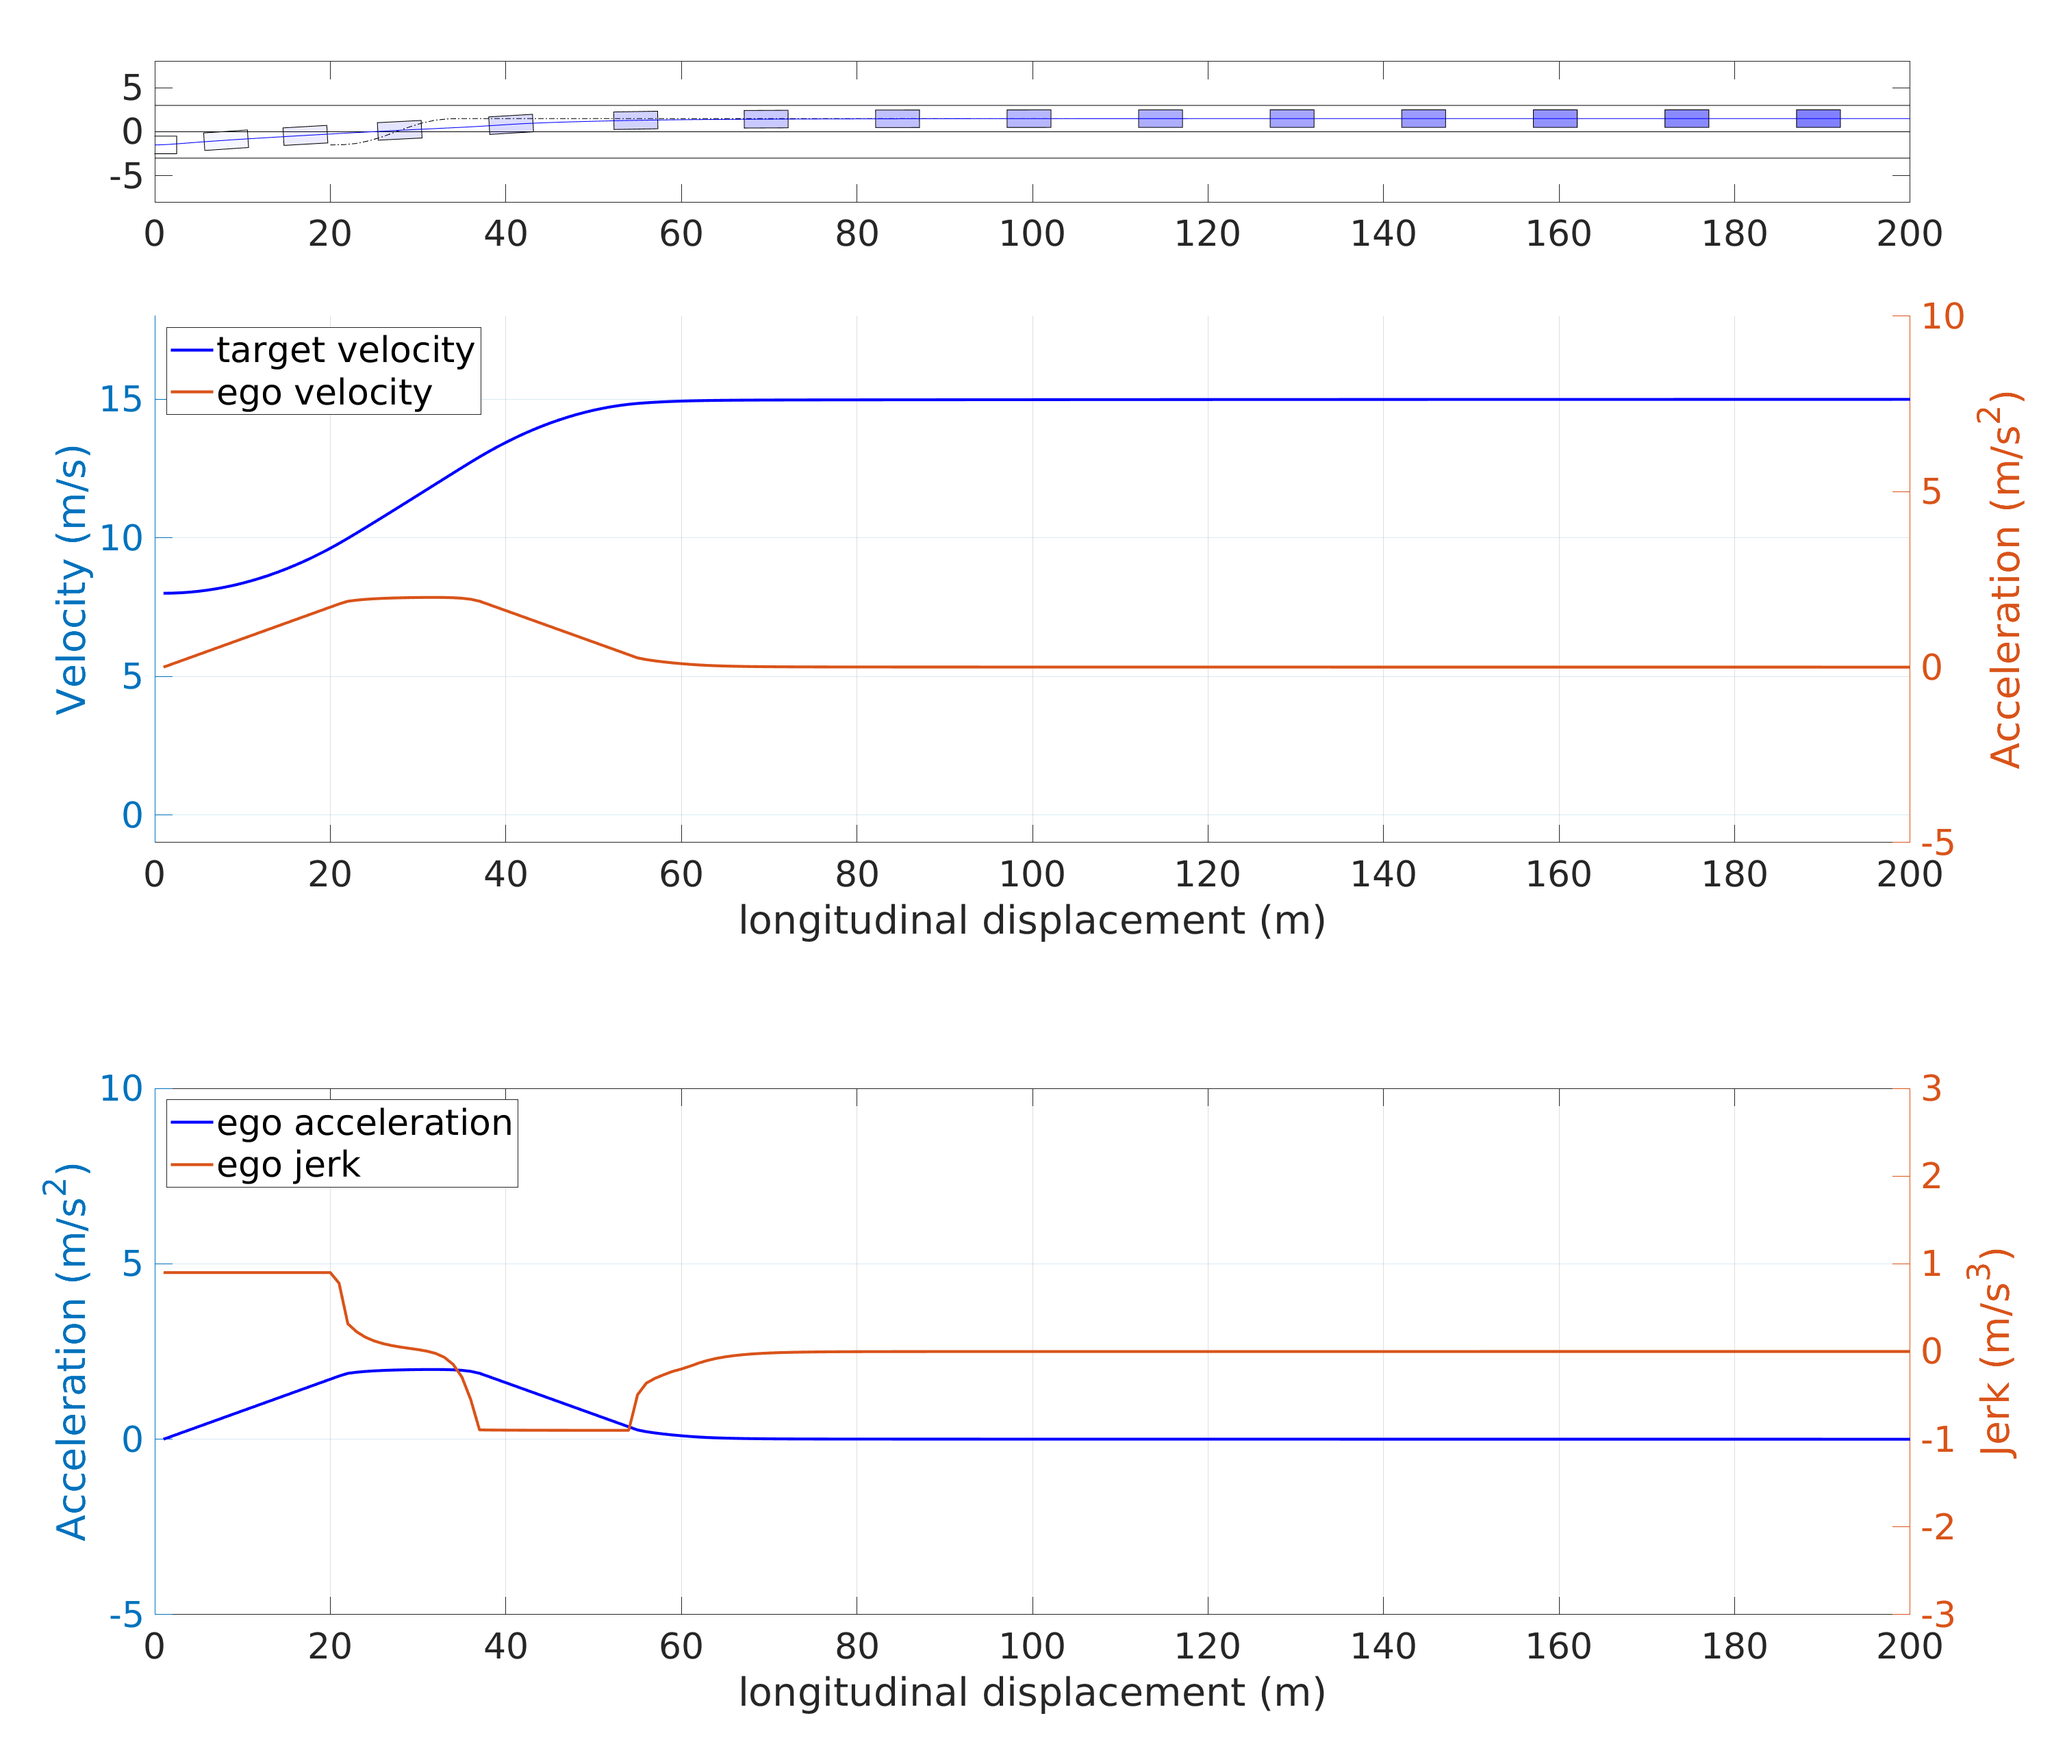
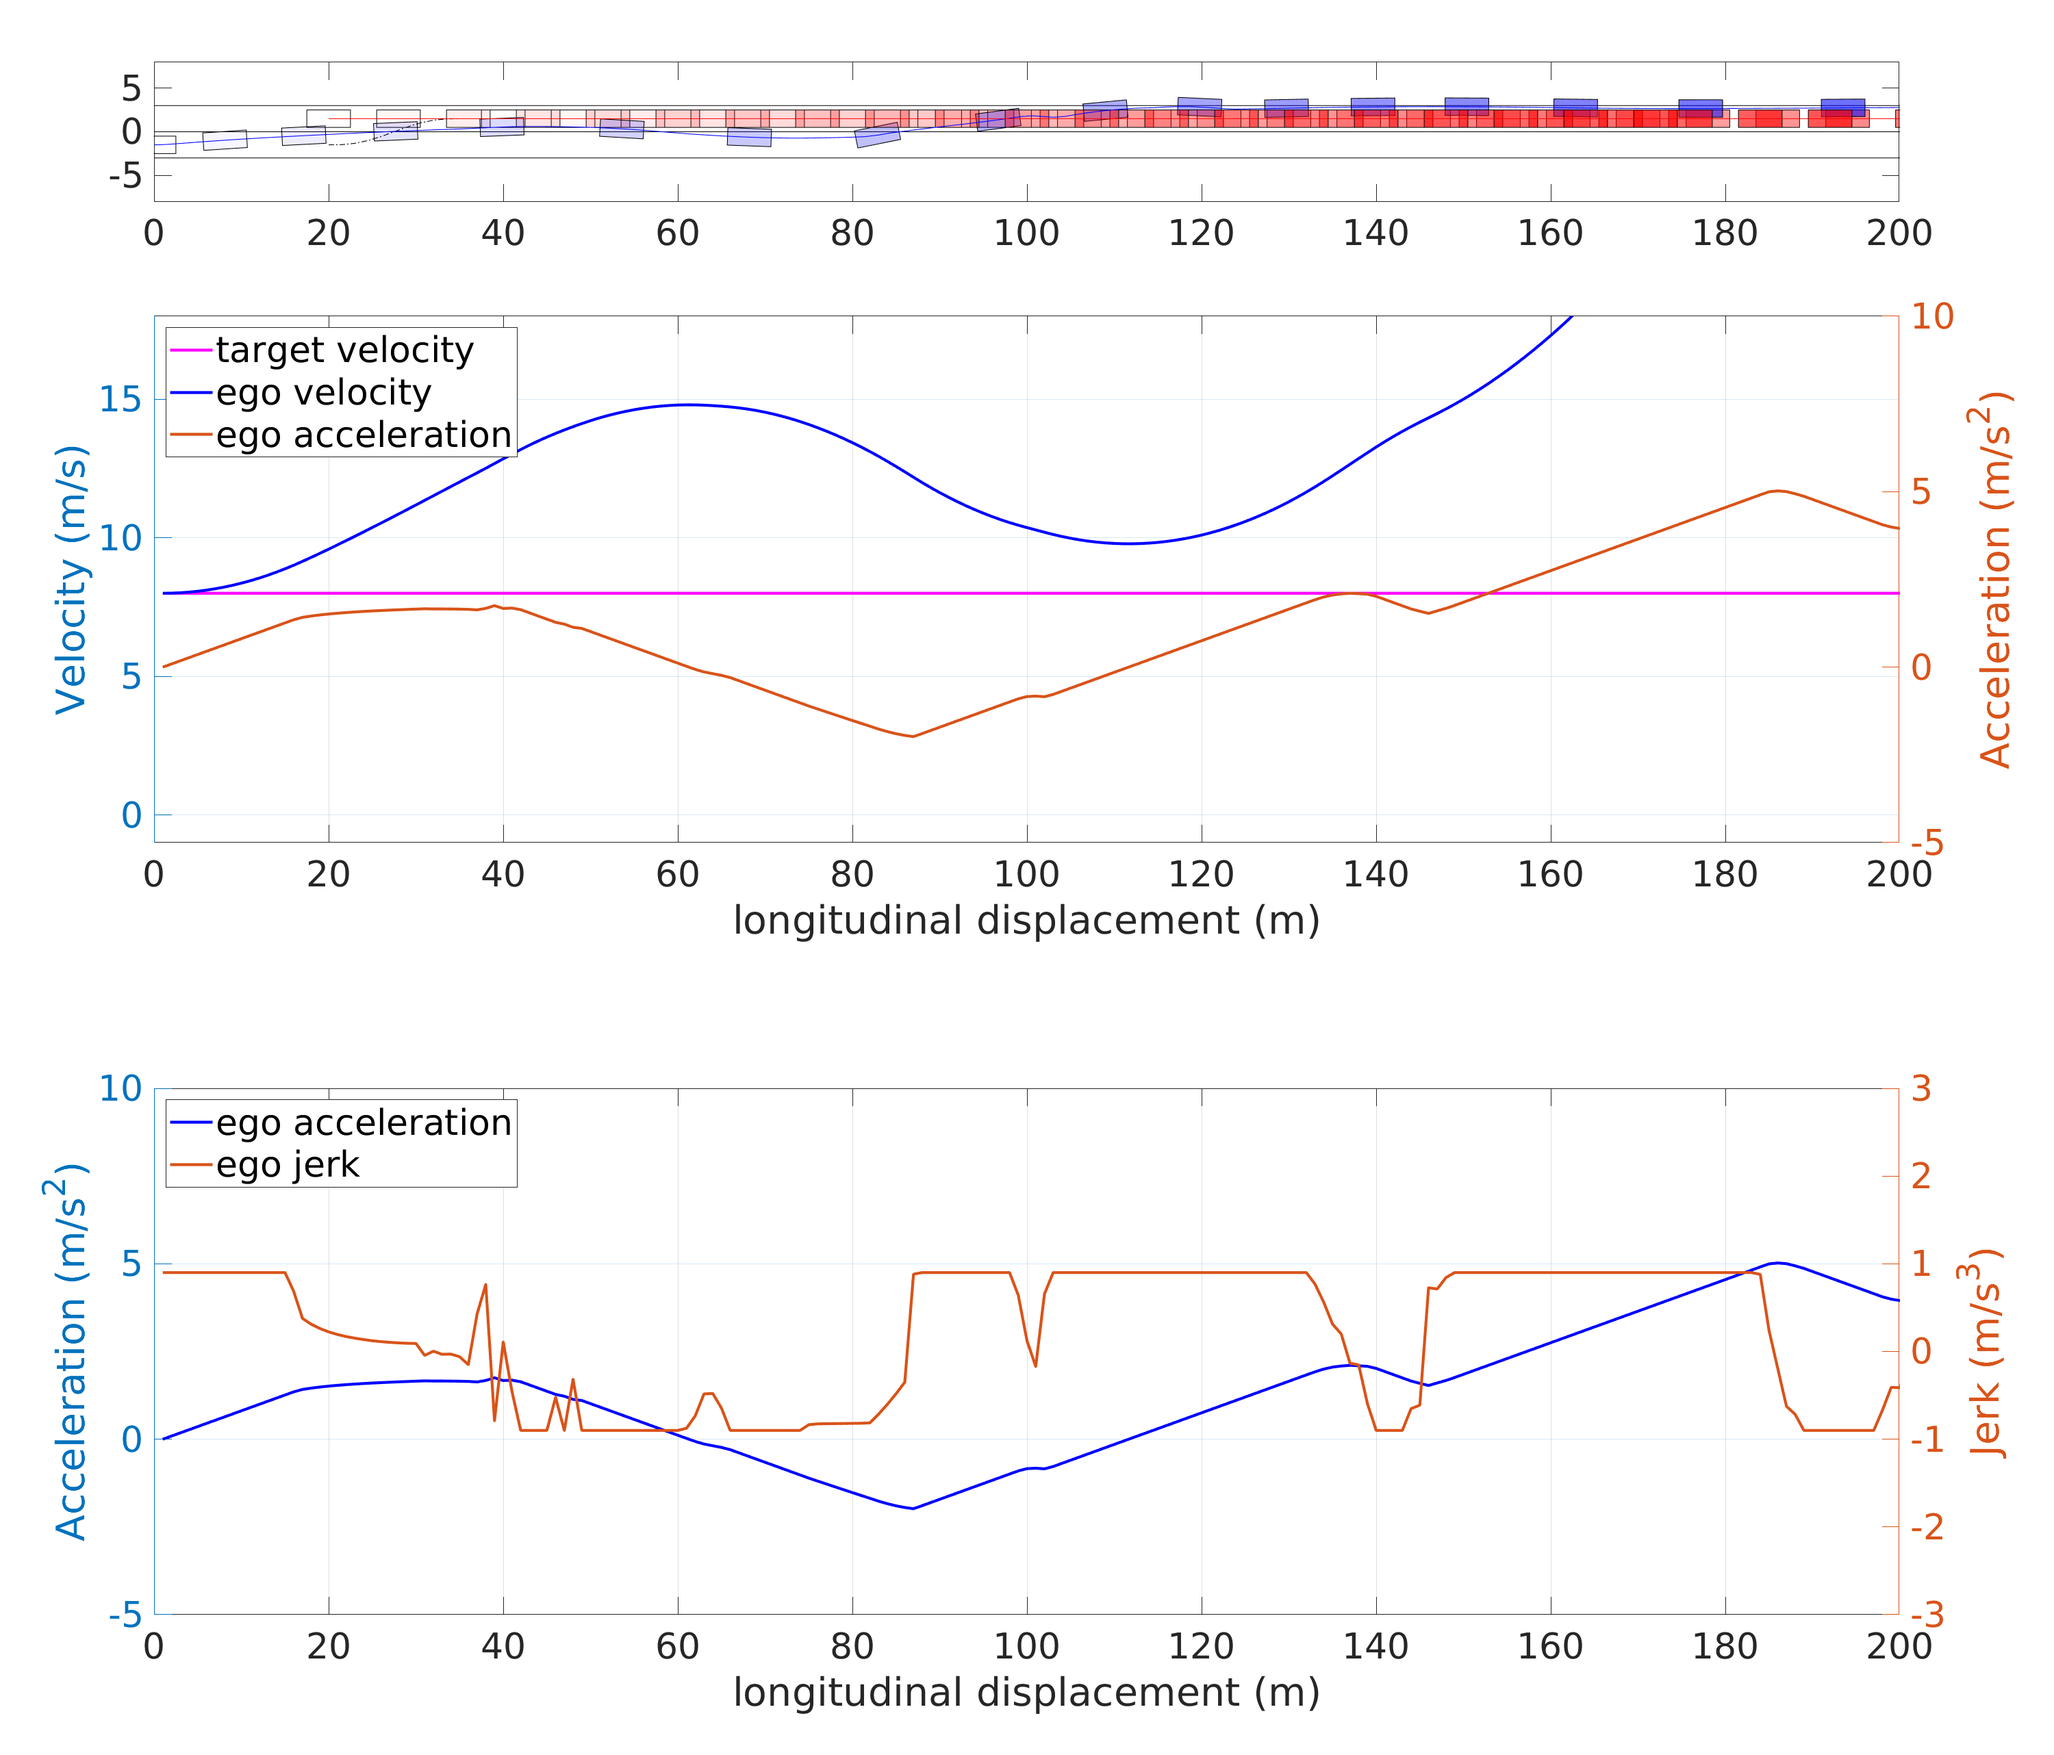
starting to work on imaginary target vehicle,  phase planer and obtacle overtaking

diff --git a/DYNCST.m b/DYNCST.m
@@ -58,6 +58,8 @@ global vref aref vref_road
     global y_final y_temp_final
     global param
 
+ % for obstacle overtaking until the road is clear 
+ global EgoPolicy Phase
 %% vehicle kinematcs differential terms
 fx = zeros(X_DIM, X_DIM, NUM_CTRL);
 fu = zeros(X_DIM, U_DIM, NUM_CTRL);
@@ -118,7 +120,7 @@ cuu = zeros(U_DIM, U_DIM, NUM_CTRL);
 cux = zeros(U_DIM, X_DIM, NUM_CTRL + 1);...     du then dx
 
 %parameters required for weight calculations 
-
+Imag_targetCar_dis=1000;%this distance has been used to for an Imaginary target Car farawa from ego vehicle in a same lane with lane refrence speed so it can be used in adptive eight tning furmula in case no car was in front of ego vehicle and its lane   
 for i = 1:1:NUM_CTRL
     Xi = X(:,i);
     Ui = U(:,i);
@@ -132,24 +134,25 @@ for i = 1:1:NUM_CTRL
            w_ref       = 30.* ones(NUM_CTRL,1);... 3
            w_vel       = 30.* ones(NUM_CTRL,1);
         else
-       EgoPolicy=0;%initialization
+       EgoPolicy=0;%initialization meaning lane keeping by default 
        Vtraffic=vref_road;%initialization
        ghgh=length(obstacle);
        %if there wasn't an car near than distance of 300 from our car, we spcify the index as a requirment for following eqs  
       
        for k = 1:length(obstacle)
-              index=k;
+%               index=k;
               dxx_1=obstacle(k).traj(1,i)-Xi(1);%dx_1=deltax(1) tp remove the influnce of back cars on ego vehicle speed we don't use abs distance value here 
               EgoLaneY = CenterLaneY_detector(Xi(2));
               tgtLaneY = CenterLaneY_detector(obstacle(k).traj(2,i));
               if EgoLaneY==tgtLaneY
               if obstacle(k).traj(4,i)<Vtraffic 
                  Vtraffic = obstacle(k).traj(4,i);
-                 index=k;
+%                  index=k;
               end
               end
          end 
-       
+       close_car=1000;%initalization large distance
+       index=-1;%initalization index, we need to evaluate each time the nvironment to find the correct trget vehicle and if there's no car available in our lane index should be NaN 
         for k = 1:length(obstacle)
               dxx_1=obstacle(k).traj(1,i)-Xi(1);%dx_1=deltax(1) tp remove the influnce of back cars on ego vehicle speed we don't use abs distance value here 
               EgoLaneY = CenterLaneY_detector(Xi(2));
@@ -171,13 +174,18 @@ for i = 1:1:NUM_CTRL
               deltaV=obstacle(k).traj(4,i)-vref_road;%Vtraffic is either Vref_road or speed of th car with lowest speed
               deltaX=obstacle(k).traj(1,i)-Xi(1);
               EgoPolicy =EgoPolicy+deltaV/deltaX;% EgoPolicy can be lane changing for EgoPolicy<0
-
+              %finding the index of target vhicle with min distance if it's in the same lane with ego car   
+              if dx_wei_tags(k)<close_car
+              close_car=dx_wei_tags(k);
+              index=k;
+              end
+              
          end 
         end
         
    
 
-         [dx_wei,index]=min(dx_wei_tags);% addaptive weight func modified by Omid
+%          [dx_wei,index]=min(dx_wei_tags);% addaptive weight func modified by Omid
 %         ggg=round(Xi(2));
 %         if ggg~=4
 %         disp(index);
@@ -186,12 +194,27 @@ for i = 1:1:NUM_CTRL
 %         if index==4
 %          disp(index);
 %         end
-         dx_1=obstacle(index).traj(1,i)-Xi(1);%dx_1=deltax(1) tp remove the influnce of back cars on ego vehicle speed we don't use abs distance value here 
-         dx_2=abs(Xi(2)-obstacle(index).traj(2,i));%dx_2=deltax(2)
 
-%         if y_temp_final ~= y_final
+         if index==-1
+         dx_1=Imag_targetCar_dis;
+         dx_2=abs(Xi(2)-Xi(2));
+         vref=floor(vref_road+abs((vref_road+0.1-vref_road)*tanh(0.05*dx_1+0.2*dx_2)));
+         B=dx_1+vref_road-0.6*vref-2*param.len;
+         C=dx_1+vref_road-vref-10*param.len;
+         else
+             dx_1=obstacle(index).traj(1,i)-Xi(1);%dx_1=deltax(1) tp remove the influnce of back cars on ego vehicle speed we don't use abs distance value here 
+             dx_2=abs(Xi(2)-obstacle(index).traj(2,i));%dx_2=deltax(2)
+
+            %         if y_temp_final ~= y_final
             vref=floor(obstacle(index).traj(4,i)+abs((vref_road+0.1-obstacle(index).traj(4,i))*tanh(0.05*dx_1+0.2*dx_2)));
-%10 6 2020 if tgt was faster than vref_road then it is important to diminish the vlocoty of vref to vref_road
+            %vref=15.;
+            %10 6 2020 if tgt was faster than vref_road then it is important to diminish the vlocoty of vref to vref_road
+            B=dx_1+obstacle(index).traj(4,i)-0.6*vref-2*param.len;
+            C=dx_1+obstacle(index).traj(4,i)-vref-10*param.len;
+         end
+         
+
+
             if vref>vref_road
                 vref=vref_road;
             end
@@ -202,8 +225,7 @@ for i = 1:1:NUM_CTRL
         y_temp=y_temp_final;
         dy_f=abs(y_final-Xi(2));%deltay_final
         dy_t=abs(y_temp-Xi(2));%dy_t=deltay_temp is at max equal to the distance between the curent ego vehicle center lane with the other lane center if we want to go there as a step to reach th y_final
-        B=dx_1+obstacle(index).traj(4,i)-0.6*vref-2*param.len;
-        C=dx_1+obstacle(index).traj(4,i)-vref-10*param.len;
+        
         
         E=dx_2-dy_t;
         mean_acc=0;sigma_acc=3;mean_jerk=0;sigma_jerk=0.1;

diff --git a/scenario_generation.m b/scenario_generation.m
@@ -461,13 +461,13 @@ function [obs, cut_in_traj] = scenario_generation(Case_Code)
        end
        elseif strcmp(Case_Code,'Od5')%for two lane change tests
         % obstacle1
-        o1_init = [-60;3*Lane_size/2.; 0; 19; 0];
+        o1_init = [20;Lane_size/2.; 0; 8; 0];
         o1_vert = inflate(o1_init);
         o1      = obstacle(o1_init(1:2), o1_vert,o1_init(3), o1_init(4), o1_init(5), NUM_CTRL, dt, t_switch);
         o1      = o1.update_traj(false);
         
         % obstacle2 
-        o2_init = [100; Lane_size/2.; 0; 8; 0];
+        o2_init = [40; Lane_size/2.; 0; 8; 0];
         o2_vert = inflate(o2_init);
         o2      = obstacle(o2_init(1:2), o2_vert, o2_init(3), o2_init(4), o2_init(5), NUM_CTRL, dt, t_switch);
         o2      = o2.update_traj(false);
@@ -475,7 +475,7 @@ function [obs, cut_in_traj] = scenario_generation(Case_Code)
         % obstacle3 
         
         
-        o3_init = [20;3*Lane_size/2.; 0; 8;0];
+        o3_init = [90;Lane_size/2.; 0; 8;0];
         o3_vert = inflate(o3_init);
         o3      = obstacle(o3_init(1:2), o3_vert, o3_init(3), o3_init(4), o3_init(5), NUM_CTRL, dt, t_switch);
         o3      = o3.update_traj(false);
@@ -487,7 +487,7 @@ function [obs, cut_in_traj] = scenario_generation(Case_Code)
         o4      = o4.update_traj(false);
         
         % obstacle5 
-        o5_init = [80; -Lane_size/2.;  0; 7; 0];
+        o5_init = [80;Lane_size/2.;  0; 7; 0];
         o5_vert = inflate(o5_init);
         o5      = obstacle(o5_init(1:2), o5_vert, o5_init(3), o5_init(4), o5_init(5), NUM_CTRL, dt, t_switch);
         o5      = o5.update_traj(false);
@@ -498,13 +498,13 @@ function [obs, cut_in_traj] = scenario_generation(Case_Code)
         o6      = obstacle(o6_init(1:2), o6_vert, o6_init(3), o6_init(4), o6_init(5), NUM_CTRL, dt, t_switch);
         o6      = o6.update_traj(false);
         
-        obs = [];
+        obs = [o1,o2,o3];
         
         % build a full target trajectory
 %         for mm=1:size(obs)
         cut_in_traj(:,:,1) = o1_init * ones(1, (T+T_horizon)/dt);
-%         cut_in_traj(:,:,2) = o2_init * ones(1, (T+T_horizon)/dt);
-%          cut_in_traj(:,:,3) = o3_init * ones(1, (T+T_horizon)/dt);
+        cut_in_traj(:,:,2) = o2_init * ones(1, (T+T_horizon)/dt);
+          cut_in_traj(:,:,3) = o3_init * ones(1, (T+T_horizon)/dt);
 %           cut_in_traj(:,:,4) = o4_init * ones(1, (T+T_horizon)/dt);
 %         cut_in_traj(:,:,5) = o5_init * ones(1, (T+T_horizon)/dt);
 %         cut_in_traj(:,:,6) = o6_init * ones(1, (T+T_horizon)/dt);

diff --git a/iLQR.m b/iLQR.m
@@ -83,6 +83,10 @@ global y_final y_temp_final y_temp_init traj_count
 % road upper and lower limitstraj_count
 global road_up_lim road_low_lim Lane_size
 global vref aref vref_road
+
+ % for obstacle overtaking until the road is clear 
+ global EgoPolicy Phase
+
 % --- initialize trace data structure
 trace = struct('iter',nan,'lambda',nan,'dlambda',nan,'cost',nan);
 trace = repmat(trace,[maxIter 1]);
@@ -192,6 +196,16 @@ loop_time   = [];
 
 % iLQR
 for i = 1:1:NUM_TOTAL
+    
+    %we have a two phases planner: phase 1 for  for obstacle overtaking until the road is clear then phase 2 for going to the desired destination if we're not on it already 
+    % ref generation for obstacle overtaking until the road is clear 
+    if Phase==1
+         if EgoPolicy<0
+        
+         else
+         end
+    elseif Phase==2
+    
     %y_temp_final y_temp_init;
     % check if the trajectory has reached to its temperary destinations      
     if y_temp_final ~= y_final & scenario_ref=='LaneChange' %Omid: here we want to update, we don't want to generate and update linear ref trag  
@@ -214,9 +228,10 @@ for i = 1:1:NUM_TOTAL
              disp(ref_traj(1,4))
         %vref i constantly updating in DYNCST
              ref_traj    = reftraj_gen(2*T, dt, ego_initial_y,20, scenario_ref, aref,vref,tf,X_planned(1,i-1),vehicle_type);%we need to update the x0 from 20 to current position of ego vehicle
-      end
+       end
     
-    
+    end
+     
     
     
     tic
